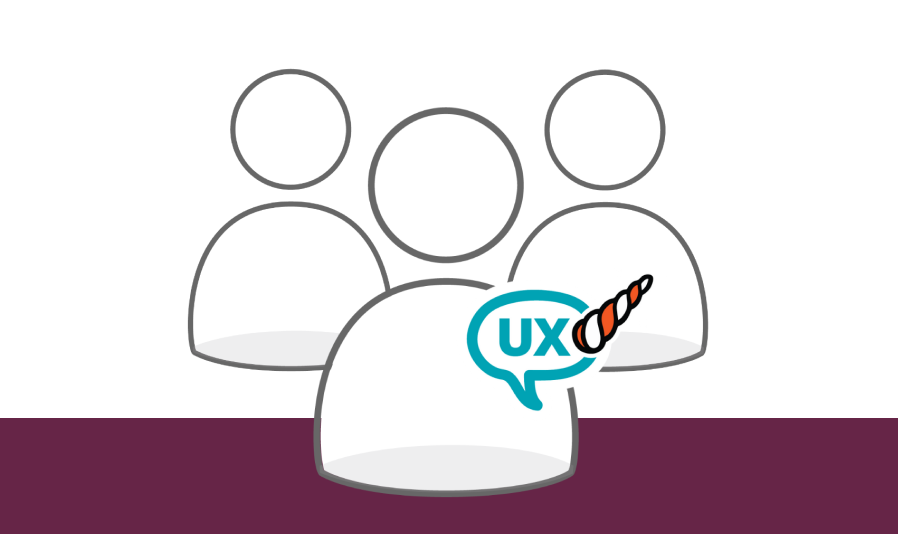
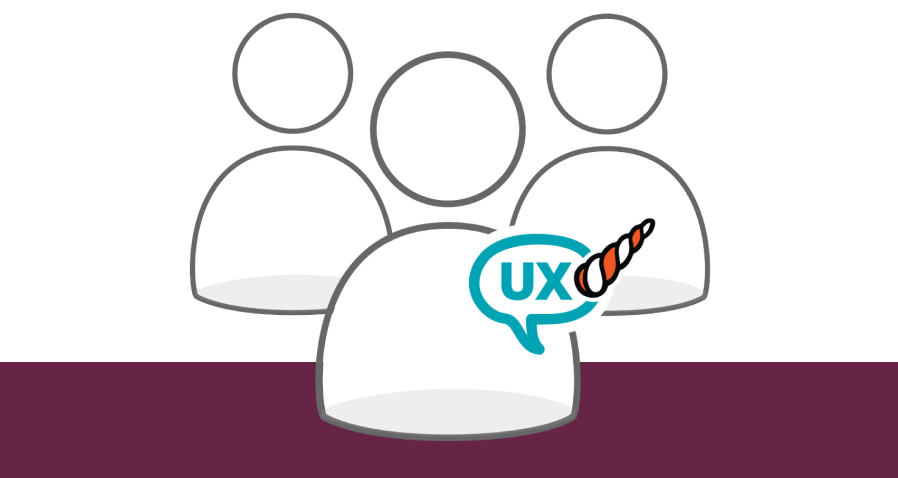
Updated Level 1 Changes
Updated Level 1 Changes

Changed region(s): [[0.0, 0.0293, 1.0, 0.9372], [0.6236, 0.0293, 0.7171, 0.0879]]

diff --git a/index.html b/index.html
@@ -21,7 +21,7 @@
     <meta property="og:url" content="https://research.centercentre.com/" />
     <title>Strategic Approaches to UX Research</title>
     <meta name="description" content="Strategic Approaches to UX Research" />
-    <meta property="og:image" content="https://asset.uie.com/img/research/researchPreview.jpg" />
+    <meta property="og:image" content="https://asset.uie.com/img/research/2024-research-preview.jpg" />
     <meta property="og:site_name" content="Strategic Approaches to UX Research" />
     <meta property="og:description"
         content="Strategic Approaches to UX Research - Strategic UX Research is changing organizations. Get ready to change yours." />
@@ -69,7 +69,7 @@
                         by<br>Jared Spool.
                     </h3>
                     <h3 class="text-white hero-text-2">
-                        No more guessing. No more betting.<br>Eliminate risk with the magic of<br>Strategic UX Research.
+                        Strategic UX Research is<br>changing organizations.<br>Get ready to change yours.
                     </h3>
                 </div>
             </div>
@@ -407,6 +407,15 @@
             <div class="column basis60">
                 <h2>Just the fundamentals? Or are you prepared to lead?</h2>
                 <br>
+                <p><b>The Fundamentals of Strategic UX Research</b></p>
+                <p><em>June 3-7, 2024</em><br>
+                    <em>90-minute sessions each day</em><br>
+                    <em>Choose either 12pm ET (17.00 GMT) or 6pm ET (23.00 GMT)</em>
+                </p>
+
+                <p>Each day during the week, you’ll attend a 90-minute session containing a new aspect of Strategic UX
+                    Research. You can choose the session that is best for your schedule. Jared will be at both to
+                    introduce you to the fundamentals and answer your questions.</p>
                 <p>Right now, you might just be “Strategic UX Research curious.” If so, our <b>The Fundamentals of
                         Strategic UX Research</b> package is precisely what you need.</p>
 
@@ -434,15 +443,7 @@
                     collaborate with you on
                     how to proceed with your transformation.</p>
 
-                <p><b>The Fundamentals of Strategic UX Research</b></p>
-                <p><em>June 3-7, 2024</em><br>
-                    <em>90-minute sessions each day</em><br>
-                    <em>Choose either 12pm ET (17.00 GMT) or 6pm ET (23.00 GMT)</em>
-                </p>
 
-                <p>Each day during the week, you’ll attend a 90-minute session containing a new aspect of Strategic UX
-                    Research. You can choose the session that is best for your schedule. Jared will be at both to
-                    introduce you to the fundamentals and answer your questions.</p>
 
 
             </div>
@@ -989,7 +990,7 @@
 
     <!--Pricing Section-->
     <!-- Purchase Plans -->
-    <section id="plans" class="bg-white">
+    <section class="bg-white">
         <div class="container-cc split py-3 mobile-view">
             <div class="no-padding-on-tablet pr-5">
                 <h2>Sign up for the Strategic Approaches to UX Research Intensive</h2>
@@ -1012,10 +1013,7 @@
                         <h4>Team price per person</h4>
                         <h2 class="price">$397</h2>
                         <br>
-                        <p>
-                            <b>
-                                <iem>Spaces are limited.
-                                    <br>
+                        <p><b><em>Spaces are limited.<br>
                                     They’ll go fast!</em>
                             </b>
 
@@ -1030,8 +1028,8 @@
                         </div>
 
                         <div class="padding50">
-                            <ul class="ulPaid">
-                                <li class="paidLili">Win Influence with a Strategic UX Research Approach</li>
+                            <ul class="ulPaid" style="margin-top: 0;">
+                                <li class="paidLili" >Win Influence with a Strategic UX Research Approach</li>
                                 <li class="paidLili">Deliver Better-Designed Products with a Research-Driven Roadmap
                                 </li>
                                 <li class="paidLili">Increase Innovation with Continuous Research</li>
@@ -1131,7 +1129,7 @@
                             </ul>
                         </div>
                     </div>
-                    <div class="txt-center pt-1 pb-2 mobile-padding">
+                    <div id="plans" class="txt-center pt-1 pb-2 mobile-padding">
                         <a class="btn btn-orange  btn-fill btn-shadow"
                             href="https://reg.centercentre.com/research-ptl/">BUY PREPARE TO LEAD PACKAGE</a>
                     </div>
@@ -1174,15 +1172,15 @@
                 </p>
             </div>
             <div class="column basis30 d-flex align-items-center">
-                <div class="sticky hide-on-mobile">
+                <div>
                     <picture>
                         <img src="/images/2024_Recordings_Computer.png" class="img-resp image-left"
                             alt="Image of Computer" style="width: 292px;">
                     </picture>
-                    <h3>Recording Series Price<br>$98</h3>
+                    <h3 style="text-align: center;">Recording Series Price $98</h3>
                     <div class="head-button" style="text-align: center;">
                         <a class="btn btn-shadow btn-purple btn-fill"
-                            href="https://reg.centercentre.com/research-recordings/">PRE-ORDER THE VIDEO SERIES</a>
+                            href="https://reg.centercentre.com/research-recordings/">PRE-ORDER VIDEO SERIES</a>
                     </div>
                 </div>
             </div>

diff --git a/style/2024updates.css b/style/2024updates.css
@@ -110,6 +110,8 @@ flex-shrink: 0;
 }
 .ulPaid {
     list-style: none;
+
+  
 }
 
 .mobleSize {
@@ -121,7 +123,6 @@ flex-shrink: 0;
 
 }
 
-
 .ulPaid .paidLi::before{
     content: "\2713 ";  /* Add content: \2022 is the CSS Code/unicode for a bullet */
     color: #9B0E5B; /* Change the color */
@@ -129,6 +130,7 @@ flex-shrink: 0;
     display: inline-block; /* Needed to add space between the bullet and the text */
     width: 1em; /* Also needed for space (tweak if needed) */
     margin-left: -1em; /* Also needed for space (tweak if needed) */
+
 } 
 
 
@@ -139,6 +141,7 @@ flex-shrink: 0;
     display: inline-block; /* Needed to add space between the bullet and the text */
     width: 1em; /* Also needed for space (tweak if needed) */
     margin-left: -1em; /* Also needed for space (tweak if needed) */
+
 } 
 .ulPaidPTL {
     list-style: none;
@@ -151,6 +154,7 @@ flex-shrink: 0;
     display: inline-block; /* Needed to add space between the bullet and the text */
     width: 1em; /* Also needed for space (tweak if needed) */
     margin-left: -1em; /* Also needed for space (tweak if needed) */
+
 }
 
 .ulPaidPTL .paidLiPTli::before{
@@ -160,6 +164,7 @@ flex-shrink: 0;
     display: inline-block; /* Needed to add space between the bullet and the text */
     width: 1em; /* Also needed for space (tweak if needed) */
     margin-left: -1em; /* Also needed for space (tweak if needed) */
+
 }
 
 .btn a {

diff --git a/style/style-cc.css b/style/style-cc.css
@@ -595,10 +595,12 @@ li {
     font-family: "Source Sans Pro", "Open Sans", "Helvetica Neue", Helvetica, Arial, sans-serif;
     font-size: 20px;
     line-height: 1.5;
+
 }
 
 li>ul>li {
     list-style-type: none;
+
 }
 
 .orange-check>li {
